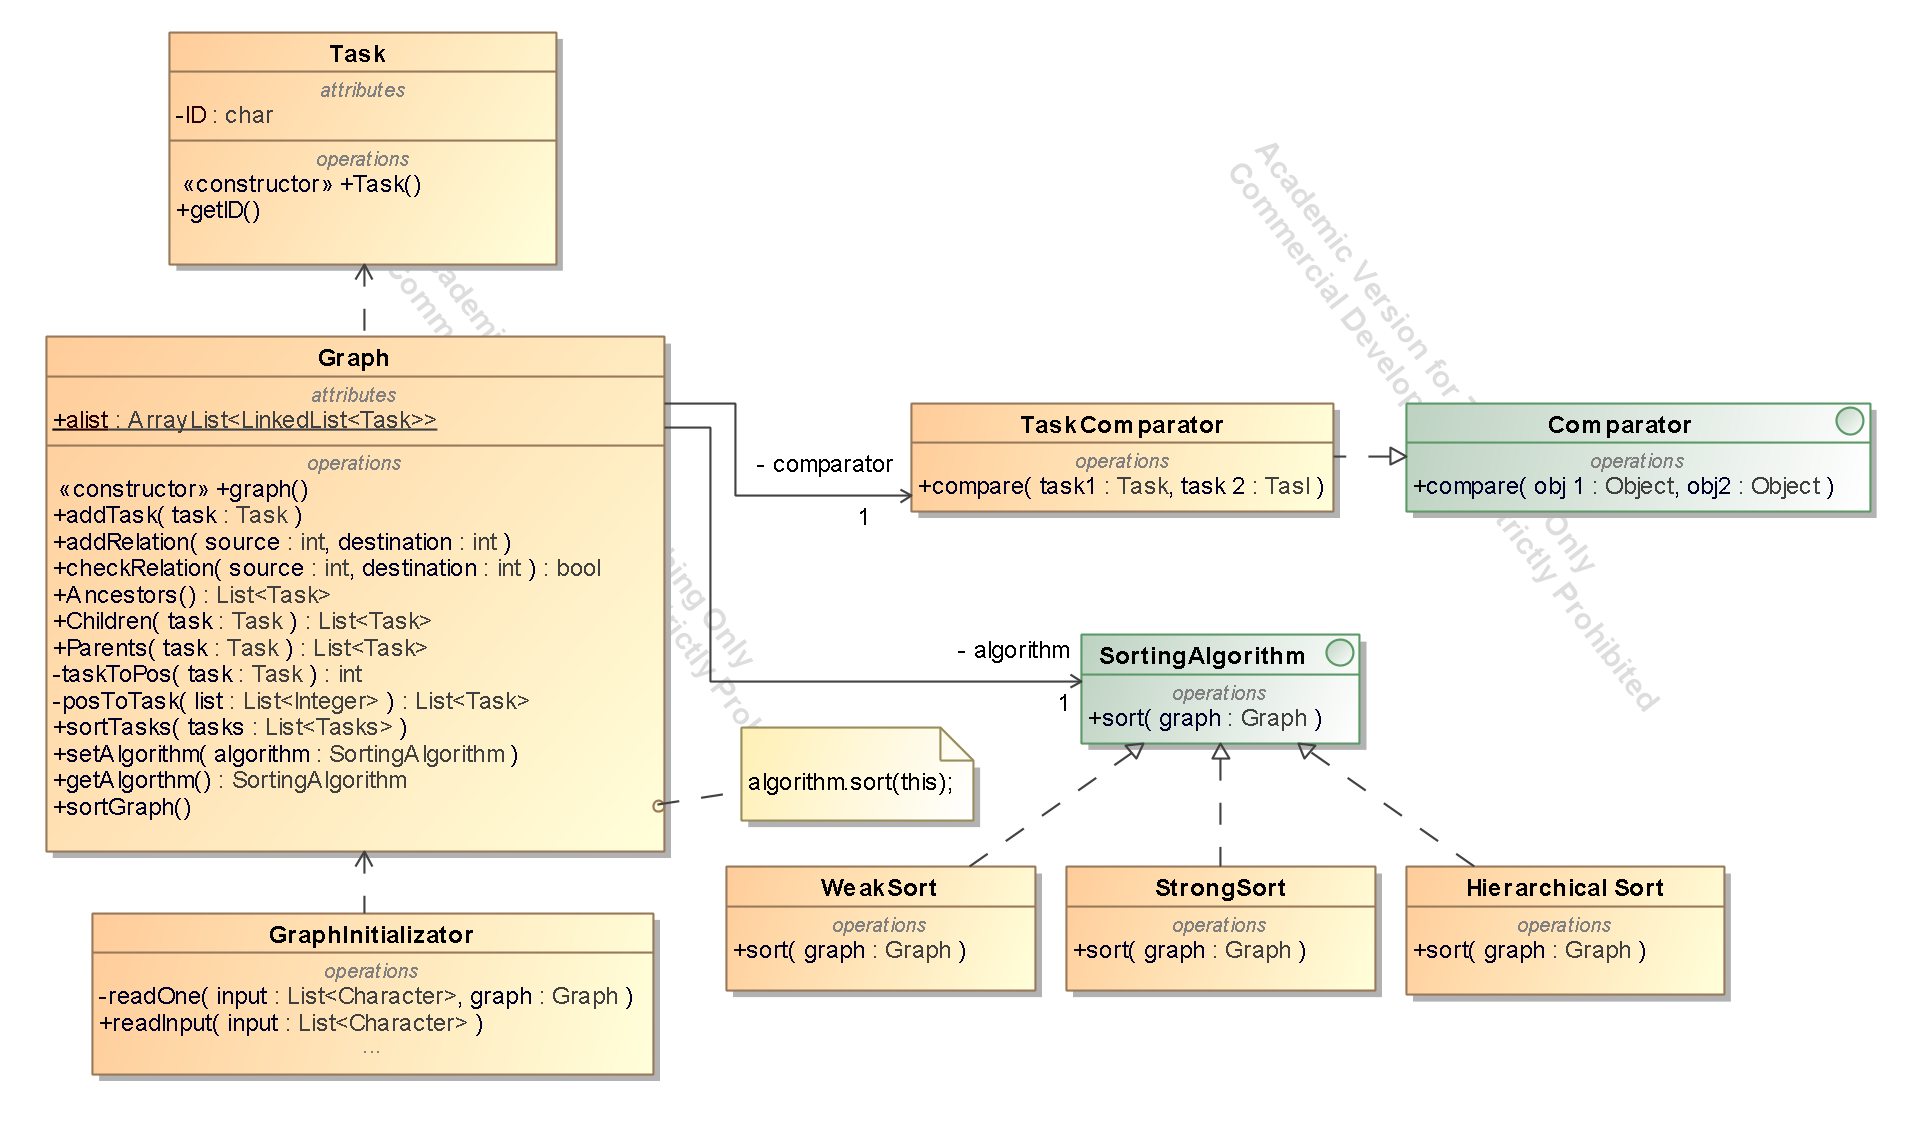
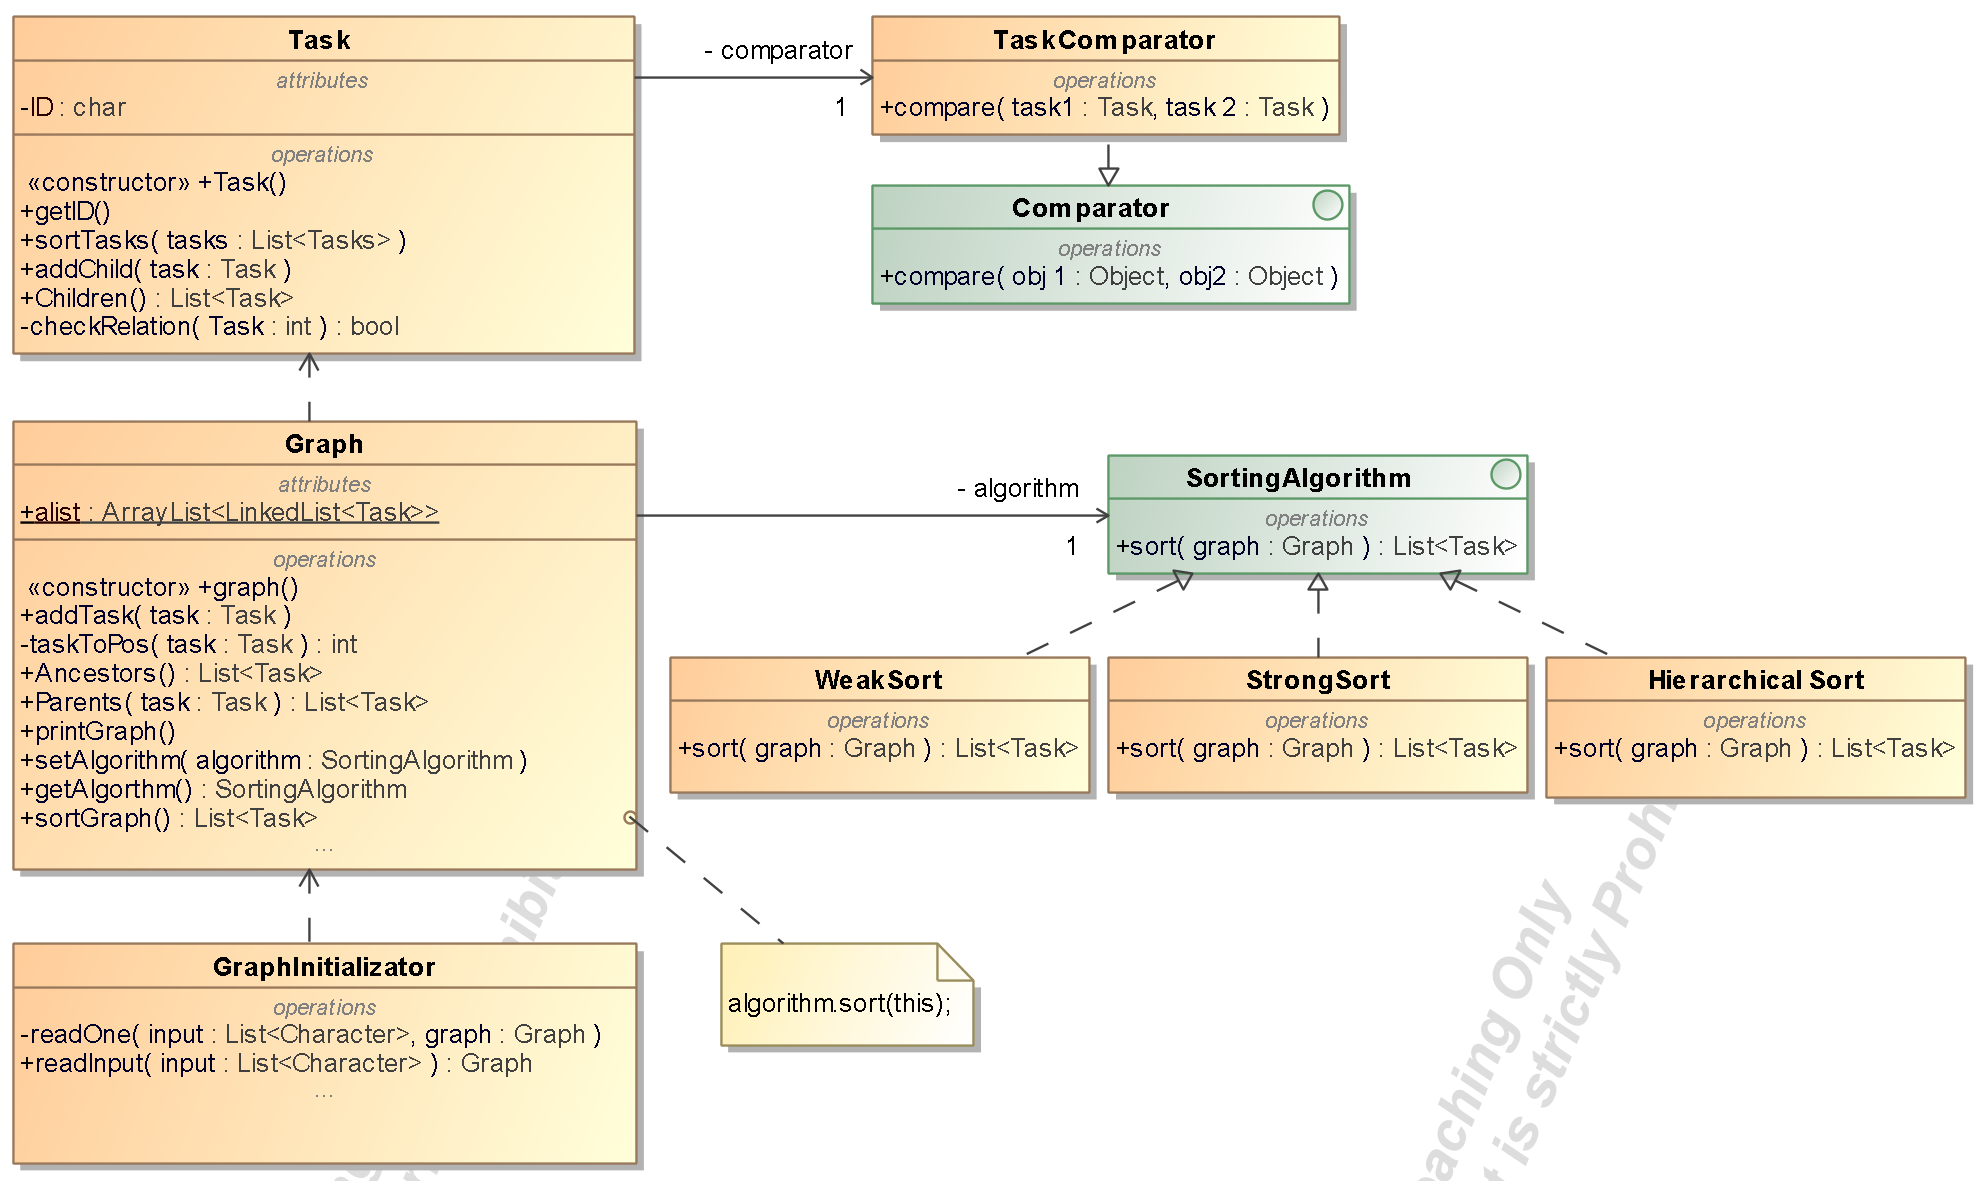
Graph initializator now works correctly and some old tests have been replaced, the class diagram has been updated

diff --git a/DS-61-08-DA/test/e2/TaskTest.java b/DS-61-08-DA/test/e2/TaskTest.java
@@ -1,6 +1,5 @@
 package e2;
 
-import org.junit.Assert;
 import org.junit.jupiter.api.Test;
 import java.util.*;
 
@@ -87,44 +86,6 @@ public class TaskTest {
             return graph;
     }
 
-    /*public Graph givenGraph(){
-        Graph graph = new Graph();
-
-        Task A = new Task ('A');     //0
-        Task B = new Task ('B');    //1
-        Task C = new Task ('C');    //2
-        Task D = new Task ('D');    //3
-        Task E = new Task ('E');    //4
-        Task F = new Task ('F');    //5
-        Task G = new Task ('G');    //6
-        Task H = new Task ('H');    //7
-        Task J = new Task ('J');    //8
-
-        graph.addTask(A);
-        graph.addTask(B);
-        graph.addTask(C);
-        graph.addTask(D);
-        graph.addTask(E);
-        graph.addTask(F);
-        graph.addTask(G);
-        graph.addTask(H);
-        graph.addTask(J);
-
-        graph.addRelation(A,B);
-        graph.addRelation(A,D);
-        graph.addRelation(B,E);
-        graph.addRelation(C,A);
-        graph.addRelation(C,F);
-        graph.addRelation(D,E);
-        graph.addRelation(F,E);
-        graph.addRelation(F,J);
-        graph.addRelation(G,F);
-        graph.addRelation(G,H);
-        graph.addRelation(H,J);
-
-        return graph;
-    }*/
-
     @Test
     public void EmptyGraphInitialization(){
         Graph graph = new Graph();
@@ -145,53 +106,12 @@ public class TaskTest {
         Graph graph = newGraph();
         List<Task> ancestors = new ArrayList<>();
     }
-/*
-    @Test
-    public void getChildren(){
-        Graph graph = new Graph();
-
-        Task A = new Task ('A');    //0
-        Task B = new Task ('B');    //1
-        Task C = new Task ('C');    //2
-        Task D = new Task ('D');    //3
-        Task E = new Task ('E');    //4
-        Task F = new Task ('F');    //5
-        Task G = new Task ('G');    //6
-        Task H = new Task ('H');    //7
-        Task J = new Task ('J');    //8
-
-        graph.addTask(A);
-        graph.addTask(B);
-        graph.addTask(C);
-        graph.addTask(D);
-        graph.addTask(E);
-        graph.addTask(F);
-        graph.addTask(G);
-        graph.addTask(H);
-        graph.addTask(J);
-
-        graph.addRelation(A,B);
-        graph.addRelation(A,D);
-        graph.addRelation(B,E);
-        graph.addRelation(C,A);
-        graph.addRelation(C,F);
-        graph.addRelation(D,E);
-        graph.addRelation(F,E);
-        graph.addRelation(F,J);
-        graph.addRelation(G,F);
-        graph.addRelation(G,H);
-        graph.addRelation(H,J);
-
-        List<Task> children = graph.Children(A);
-
-    }*/
 
     @Test
     public void sortHierarchical(){
         Graph graph = newGraph();
         graph.setAlgorithm(new HierarchicalSort());
         graph.sortGraph();
-
     }
 
     @Test
@@ -199,7 +119,6 @@ public class TaskTest {
         Graph graph = newGraph();
         graph.setAlgorithm(new WeakSort());
         graph.sortGraph();
-
     }
 
     @Test
@@ -209,51 +128,9 @@ public class TaskTest {
         graph.sortGraph();
     }
 
-    /*
-
-    @Test
-    public void ParentsTest(){
-        Graph graph = new Graph();
-
-        Task A = new Task ('A');    //0
-        Task B = new Task ('B');    //1
-        Task C = new Task ('C');    //2
-        Task D = new Task ('D');    //3
-        Task E = new Task ('E');    //4
-        Task F = new Task ('F');    //5
-        Task G = new Task ('G');    //6
-        Task H = new Task ('H');    //7
-        Task J = new Task ('J');    //8
-
-        graph.addTask(A);
-        graph.addTask(B);
-        graph.addTask(C);
-        graph.addTask(D);
-        graph.addTask(E);
-        graph.addTask(F);
-        graph.addTask(G);
-        graph.addTask(H);
-        graph.addTask(J);
-
-        graph.addRelation(A,B);
-        graph.addRelation(A,D);
-        graph.addRelation(B,E);
-        graph.addRelation(C,A);
-        graph.addRelation(C,F);
-        graph.addRelation(D,E);
-        graph.addRelation(F,E);
-        graph.addRelation(F,J);
-        graph.addRelation(G,F);
-        graph.addRelation(G,H);
-        graph.addRelation(H,J);
-
-        List<Task> Parents = graph.Parents(F);
-
-    }*/
-
     @Test
     public void InputTest(){
-        Graph graph;
+        Graph graph_in, graph;
 
         Character[] chars = {
         'C',' ','-', '>',' ','A','\n',
@@ -270,12 +147,16 @@ public class TaskTest {
 
         List<Character> input = new ArrayList<>(Arrays.asList(chars));
 
-        GraphInitializator granny = new GraphInitializator();
-        graph = granny.readInput(input);
+        GraphInitializator ginny = new GraphInitializator();
+        graph_in = ginny.readInput(input);
+        graph_in.printGraph();
+        graph = newGraph();
+        graph.printGraph();
+
     }
 
     @Test
-    public void AllSorts(){
+    public void MainTest(){
 
         Graph graph;
 
@@ -294,12 +175,12 @@ public class TaskTest {
 
         List<Character> input = new ArrayList<>(Arrays.asList(chars));
 
-        GraphInitializator granny = new GraphInitializator();
-        graph = granny.readInput(input);
+        GraphInitializator ginny = new GraphInitializator();
+        graph = ginny.readInput(input);
 
         graph.printGraph();
 
-        Task A = new Task ('A');     //0
+        Task A = new Task ('A');    //0
         Task B = new Task ('B');    //1
         Task C = new Task ('C');    //2
         Task D = new Task ('D');    //3
@@ -358,15 +239,48 @@ public class TaskTest {
 
         graph.setAlgorithm(new StrongSort());
         System.out.println(graph.getAlgorithm());
-        assertEquals(StrongCheck,graph.sortGraph());
+        List<Task> StrongResult = graph.sortGraph();
+
+        int i = 0;
+        boolean sbool = true;
+        while (i < StrongCheck.size()-1){
+            if (!(StrongCheck.get(i).getID() == StrongResult.get(i).getID())){
+                sbool = false;
+                break;
+            }
+            i++;
+        }
+        assertTrue(sbool);
 
         graph.setAlgorithm(new WeakSort());
         System.out.println(graph.getAlgorithm());
-        assertEquals(WeakCheck,graph.sortGraph());
+        List<Task> WeakResult = graph.sortGraph();
+
+        int j = 0;
+        boolean wbool = true;
+        while (j < WeakCheck.size()-1){
+            if (!(WeakCheck.get(i).getID() == WeakResult.get(i).getID())){
+                wbool = false;
+                break;
+            }
+            j++;
+        }
+        assertTrue(wbool);
 
         graph.setAlgorithm(new HierarchicalSort());
         System.out.println(graph.getAlgorithm());
-        assertEquals(HierarchyCheck,graph.sortGraph());
+        List<Task> HierarchyResult = graph.sortGraph();
+
+        int k = 0;
+        boolean hbool = true;
+        while (k < HierarchyCheck.size()-1){
+            if (!(HierarchyCheck.get(i).getID() == HierarchyResult.get(i).getID())){
+                hbool = false;
+                break;
+            }
+            k++;
+        }
+        assertTrue(hbool);
 
     }
 }

diff --git a/DS-61-08-DA/src/e2/GraphInitializator.java b/DS-61-08-DA/src/e2/GraphInitializator.java
@@ -10,23 +10,44 @@ public class GraphInitializator {
         ch1 = input.get(0);
         ch2 = input.get(5);
 
-        boolean exists = false;
+        boolean exists1 = false;
+        boolean exists2 = false;
+
+        Task X = null;
+        Task Y = null;
+
         for (Task tasks : graph.getAlist()){
             if (tasks.getID() == ch1) {
-                tasks.addChild();
-                exists = true;
+                exists1 = true;
+                X = tasks;
                 break;
             }
         }
-        if (exists)
-
-            Task t1 = new Task(ch1);
-        Task t2 = new Task(task2);
-
-        t1.addChild(t2);
-
-        graph.addTask(t1);
-        graph.addTask(t2);
+        for (Task tasks : graph.getAlist()){
+            if (tasks.getID() == ch2) {
+                exists2 = true;
+                Y = tasks;
+                break;
+            }
+        }
+        if (exists1 && exists2) X.addChild(Y);
+        if (exists1 && !exists2){
+            Y = new Task(ch2);
+            graph.addTask(Y);
+            X.addChild(Y);
+        }
+        if(!exists1 && exists2){
+            X = new Task(ch1);
+            graph.addTask(X);
+            X.addChild(Y);
+        }
+        if(!exists1 && !exists2){
+            X = new Task(ch1);
+            Y = new Task(ch2);
+            graph.addTask(X);
+            graph.addTask(Y);
+            X.addChild(Y);
+        }
     }
 
     public Graph readInput (List<Character> input) {

diff --git a/DS-61-08-DA/src/e2/TaskComparator.java b/DS-61-08-DA/src/e2/TaskComparator.java
@@ -6,8 +6,6 @@ class TaskComparator implements Comparator<Task> {
 
     @Override
     public int compare(Task task1, Task task2) {
-        if((task1 == null)||(task2==null))
-            throw new NullPointerException();
         int code1 = task1.getID();
         int code2 = task2.getID();
         return (code1 - code2);
